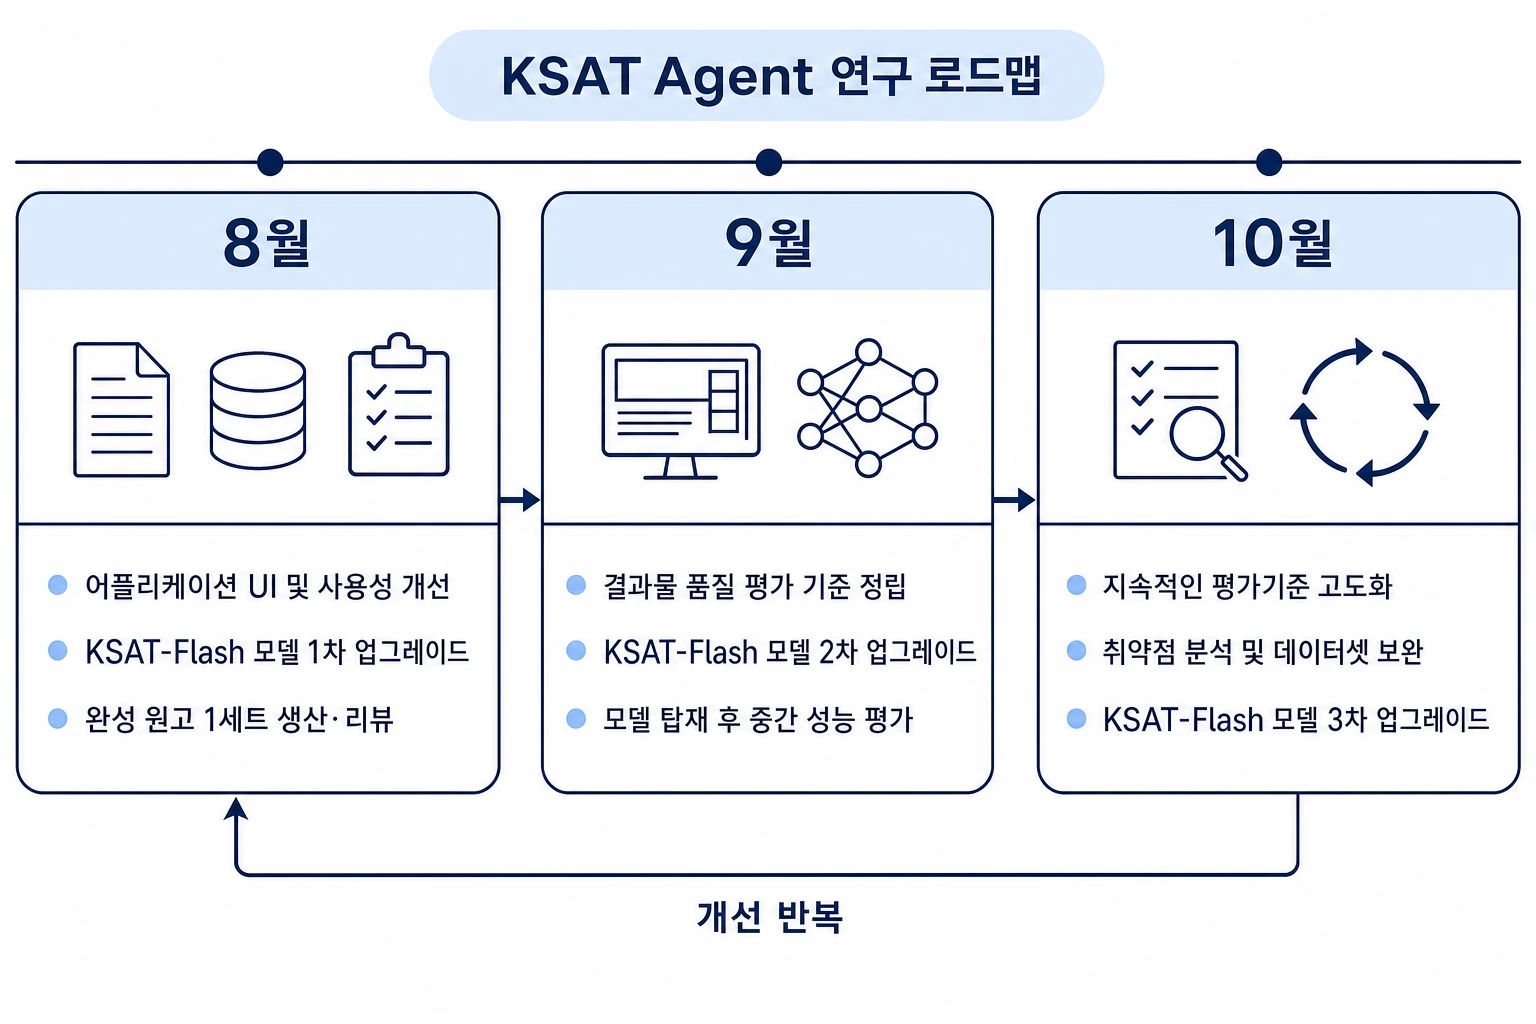
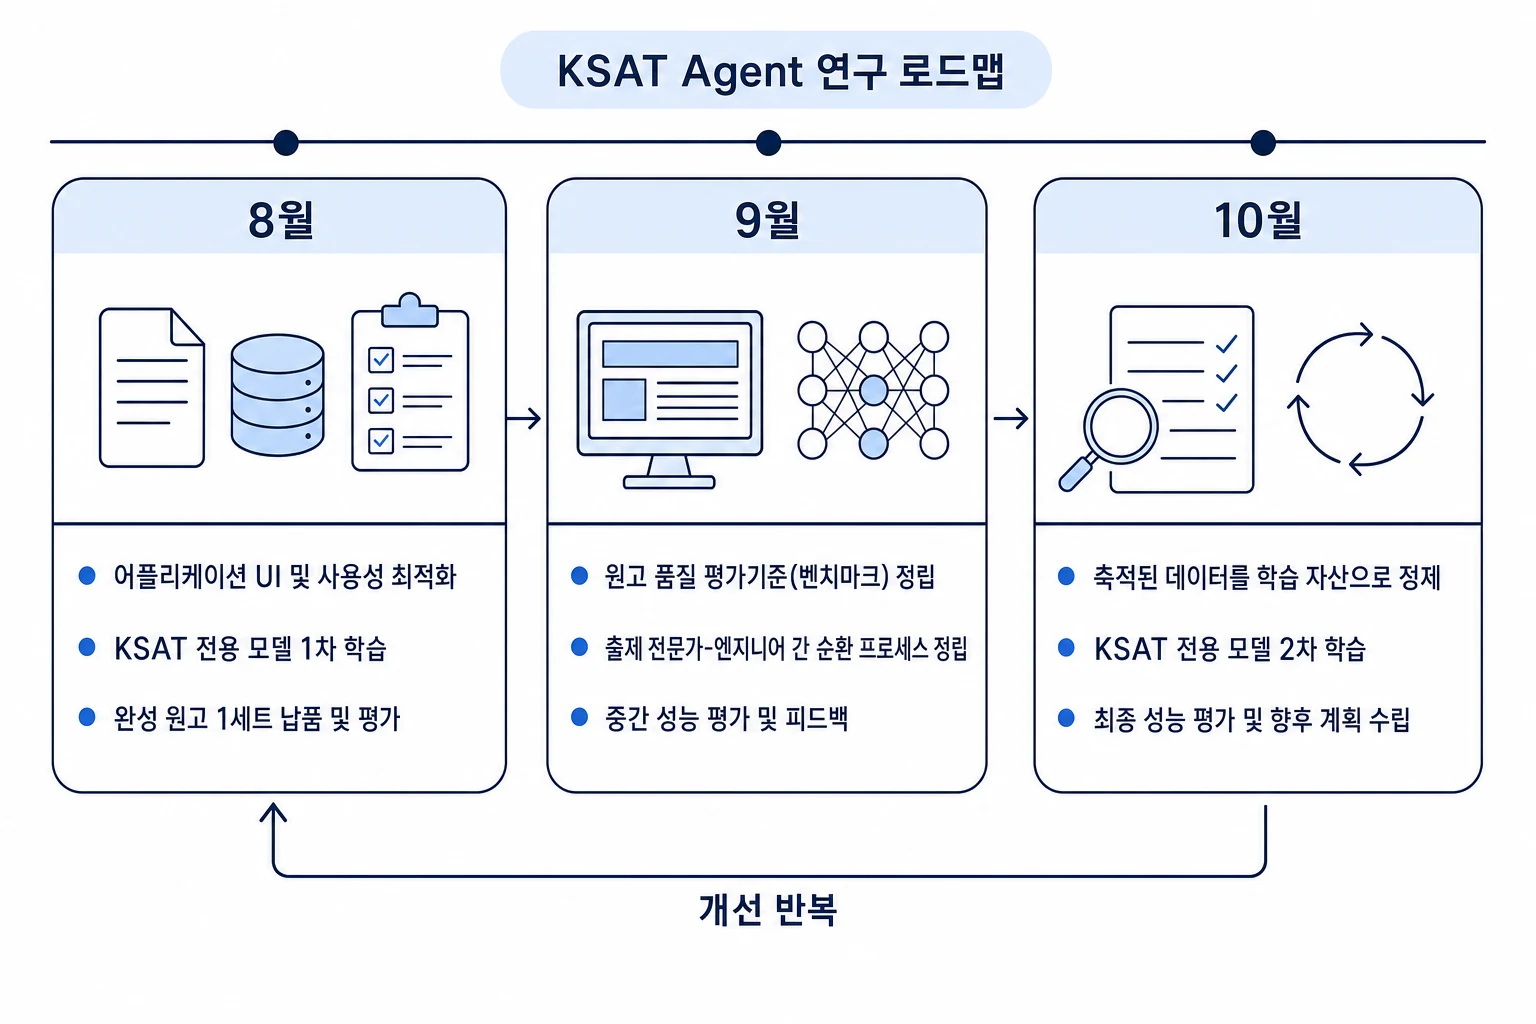
KSAT Agent 부제와 로드맵·전용 모델 도식을 갈고 CRPO에 관련 연구글을 붙인다

diff --git a/research/ksat-agent.html b/research/ksat-agent.html
@@ -61,7 +61,7 @@
 <article class="post">
 
 <h1>KSAT Agent</h1>
-<p class="post-sub">AI 기반 수능 국어 독서영역 출제 도구 연구·개발 일지</p>
+<p class="post-sub">AI 기반 수능국어 독서 영역 출제 도구</p>
 <p class="post-meta">Application · 2026-08-05 · 권준희 · 이어진 · 하성표</p>
 
 <p>수능 국어 독서 문항 세트는 소재 선정·자료 수집·지문 작성·문항 출제에 이르기까지 긴 과정을 거쳐 만들어집니다. KSAT Agent는 이 과정을 단축하고 문항 세트 초안을 효과적으로 생산하기 위해 만들어진 AI 도구입니다.</p>
@@ -74,7 +74,7 @@
 <p>이 글에서는 국어 출제 전문가와 엔지니어의 지속적인 협업을 바탕으로, KSAT Agent를 고도화시키기 위한 연구·개발 과정 및 일정을 다룹니다.</p>
 
 <figure class="shots single compact">
-  <img src="../assets/research/ksat-agent/roadmap.webp" alt="8월 어플리케이션 UI 개선과 KSAT-Flash 1차 업그레이드, 9월 품질 평가 기준 정립과 2차 업그레이드, 10월 취약점 분석과 3차 업그레이드로 이어지며 개선을 반복하는 KSAT Agent 연구 로드맵">
+  <img src="../assets/research/ksat-agent/roadmap.webp" alt="8월 어플리케이션 UI 및 사용성 최적화와 KSAT 전용 모델 1차 학습, 9월 원고 품질 평가기준 정립과 출제 전문가·엔지니어 순환 프로세스 정립, 10월 데이터 정제와 KSAT 전용 모델 2차 학습으로 이어지며 개선을 반복하는 KSAT Agent 연구 로드맵">
 </figure>
 
 <div class="tab-bar" id="journal-tabs">
@@ -151,13 +151,30 @@
 
 <h2>8월 2주차</h2>
 
-<h3>1. KSAT-Flash 1차 학습</h3>
+<h3>1. KSAT 전용 모델 1차 학습 완료</h3>
 
 <figure class="shots single compact">
-  <img src="../assets/research/ksat-agent/flash-training-1.webp" alt="1-1 Supervised Learning, 1-2 Direct Preference Optimization, 1-3 CRPO로 이어지는 KSAT-Flash 1차 학습 3단계 로드맵">
+  <img src="../assets/research/ksat-agent/models.webp" alt="30B+ 파라미터로 1회 생성에 5~10분이 걸리는 경량 모델 KSAT-Flash와 750B+ 파라미터로 20~30분이 걸리는 고성능 모델 KSAT-Max를 좌우 카드로 비교한 도식">
 </figure>
 
-<p>1-3 학습에 사용하는 CRPO의 원리와 실험 결과는 <a href="crpo.html">CRPO</a> 포스트에서 다룹니다.</p>
+<h4>학습 방법</h4>
+<ul>
+  <li>지도학습, 선호도 학습, 강화학습(<a href="crpo.html">CRPO</a>) 등</li>
+  <li>NVIDIA B200 4~12대 GPU 클러스터, 약 100시간 학습</li>
+  <li>Pipeline 추출 기반 학습 데이터셋</li>
+</ul>
+
+<h4>관련 연구글</h4>
+<ul>
+  <li><a href="roadmap.html">Roadmap</a></li>
+  <li><a href="pipeline.html">Pipeline</a></li>
+  <li><a href="crpo.html">CRPO</a></li>
+</ul>
+
+<h4>결과물 및 성능 평가</h4>
+<ul>
+  <li>8월 3주차 공개 예정</li>
+</ul>
 
 </div>
 

diff --git a/research/index.html b/research/index.html
@@ -41,7 +41,7 @@
     <div class="card-thumb"><img src="../assets/research/ksat-agent.png" alt=""></div>
     <div class="card-body">
       <div class="card-title">KSAT Agent</div>
-      <div class="card-sub">AI 기반 수능 국어 독서영역 출제 도구 연구·개발 일지</div>
+      <div class="card-sub">AI 기반 수능국어 독서 영역 출제 도구</div>
       <div class="card-meta"><span class="card-cat">Application</span><span>2026-08-05</span><span>권준희 · 이어진 · 하성표</span></div>
     </div>
   </a>

diff --git a/research/crpo.html b/research/crpo.html
@@ -252,6 +252,11 @@
 
 <p>실제 지문 품질에 미치는 영향은 같은 검증 자료에서 SFT 단독 모델과 SFT 이후 CRPO 모델을 비교하고, 출제 전문가가 생성 지문을 평가하는 후속 실험으로 확인할 계획입니다.</p>
 
+<h2>관련 연구글</h2>
+<ul>
+  <li><a href="ksat-agent.html">KSAT Agent</a></li>
+</ul>
+
 <h2>부록</h2>
 
 <h3>학습 스크립트 요약 및 손실함수 구현 (pytorch)</h3>
